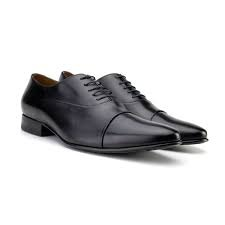
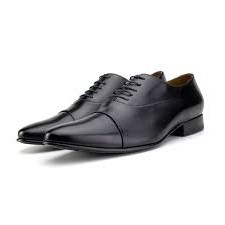
Adicionando efeitos :hover

Changed region(s): [[0.0622, 0.3111, 0.9333, 0.7467]]

diff --git a/main.css b/main.css
@@ -37,24 +37,27 @@
 #eventos img {
     height: 300px;
 }
-#calcado-social {
-    transform: scaleX(-1);
-}
+
 .price strong {
     font-size: 23px;
     align-content: center;
 }
 .btn {
-    background-color: rgb(82, 209, 23);
+    background-color: rgb(24, 232, 52);
     border: none;
     
 }
 .btn:hover {
-    background-color:rgb(57, 148, 14);
+    background-color:rgb(25, 181, 46);
     transition: all ease 0.3s;
     transform: scale(1.01);
 }
 .tamanhos {
     font-style: italic;
+}
+
+#produtos img:hover {
+    transition: all ease 0.7s;
+    transform: scale(1.3);
 }
 
